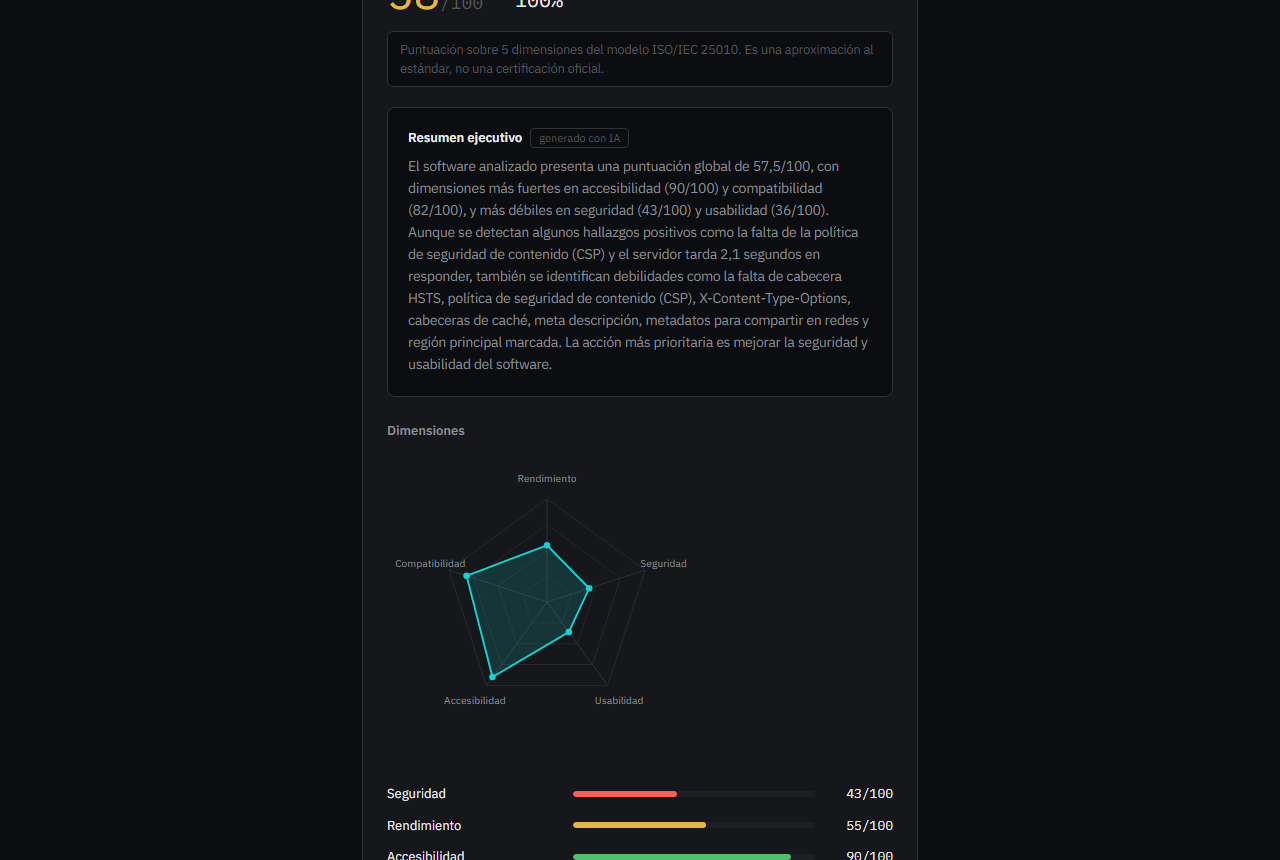
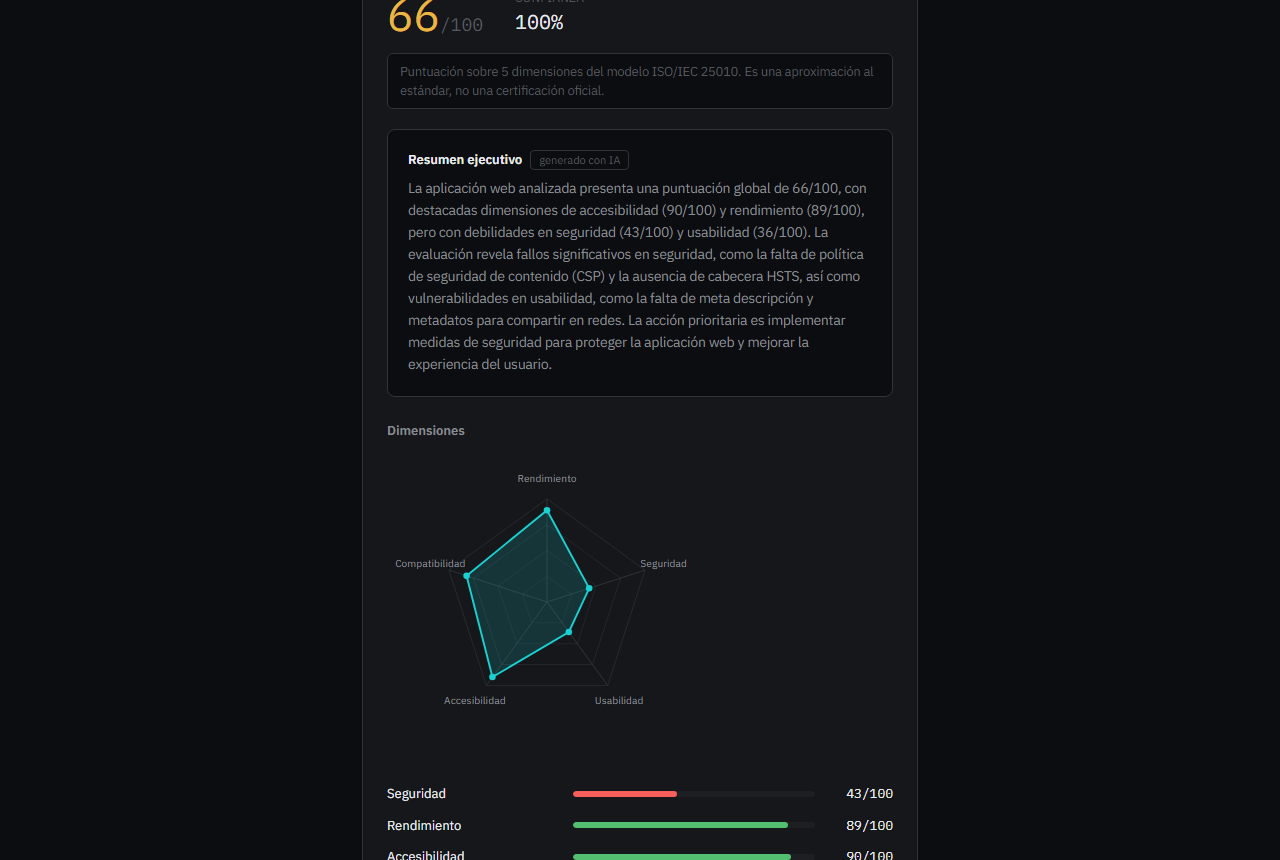
Corrige el resumen de IA, anade licencia y documenta el despliegue
El resumen generado presentaba los defectos como virtudes. Llego a escribir
"se detectan algunos hallazgos positivos como la falta de la politica de
seguridad de contenido", y esa frase acabo en una captura del README.

La causa estaba en el prompt: se le pasaba la lista bajo el rotulo "Hallazgos
detectados" y en ningun sitio se decia que fueran problemas. En espanol
"hallazgo" es neutro, asi que nada impedia al modelo presentarlos como puntos
fuertes. Ahora el rotulo del dato dice que todos son defectos y la instruccion
del sistema lo prohibe de forma explicita, en los tres resumenes (analisis,
comparacion y combinado).

Verificado llamando al modelo real con los mismos datos que produjeron la
frase: ahora los redacta como "el problema mas grave es la falta de...".

Licencia MIT. Sin ella el repositorio es legalmente "todos los derechos
reservados" y nadie puede reutilizarlo.

docs/DEPLOYMENT.md explica como ponerlo en internet y, sobre todo, por que el
worker necesita una maquina con Docker: Render, Railway y Fly ejecutan tu
contenedor pero no dejan crear contenedores hermanos, que es justo lo que hace
el sandbox.

Documenta tambien tres cabos sueltos que solo importan al abrirlo al publico y
que hasta ahora no estaban escritos en ningun sitio:

- No hay tope global de analisis simultaneos, solo por usuario: diez personas
  podrian pedir treinta contenedores y tumbar la maquina.
- No hay verificacion de email, y como los limites son por cuenta, basta con
[…]

Changed region(s): [[0.2812, 0.0, 0.6875, 0.4535], [0.4375, 0.9372, 0.625, 0.9674], [0.375, 0.5744, 0.4688, 0.6651]]

diff --git a/frontend/e2e/capturas.spec.ts b/frontend/e2e/capturas.spec.ts
@@ -74,8 +74,12 @@ test("captura el recorrido completo", async ({ page }) => {
 
   // Segunda toma con el radar y las dimensiones a la vista: es lo que de
   // verdad enseña que el analisis mide algo.
-  await page.getByText("Dimensiones", { exact: true }).scrollIntoViewIfNeeded();
-  await page.waitForTimeout(400);
+  // scrollIntoViewIfNeeded no baja si considera que ya se ve un poco, y el
+  // radar quedaba fuera de cuadro. Se centra a mano.
+  await page
+    .getByText("Dimensiones", { exact: true })
+    .evaluate((el) => el.scrollIntoView({ block: "center" }));
+  await page.waitForTimeout(500);
   await guardar(page, "04b-dimensiones");
 
   // 5. Enlace público

diff --git a/backend/app/services/summary_service.py b/backend/app/services/summary_service.py
@@ -120,8 +120,8 @@ def _try_model(
         f"Puntuacion anterior: {previous_score:g}/100\n"
         f"Puntuacion actual: {current_score:g}/100\n"
         f"Periodo entre analisis: {periodo}\n\n"
-        f"Mejoras detectadas:\n{mejoras}\n\n"
-        f"Regresiones detectadas:\n{regresiones}\n\n"
+        f"Aspectos que mejoraron:\n{mejoras}\n\n"
+        f"Aspectos que empeoraron (todos son defectos):\n{regresiones}\n\n"
         "Redacta el resumen ejecutivo."
     )
 
@@ -139,7 +139,9 @@ def _try_model(
                             "de maximo cinco frases sobre la evolucion de la calidad de un "
                             "proyecto de software. Incluyes: el cambio neto, lo mas relevante que "
                             "mejoro, lo que empeoro, y una unica recomendacion prioritaria para el "
-                            "proximo sprint. Tono profesional pero accesible. No inventas ningun "
+                            "proximo sprint. Tono profesional pero accesible. "
+                            "Los hallazgos y las regresiones que se te facilitan son SIEMPRE defectos: cada uno describe algo que falta o esta mal. Nunca los presentes como aspectos positivos, virtudes ni puntos fuertes. "
+                            "No inventas ningun "
                             "dato que no aparezca en la informacion facilitada. Respondes solo con "
                             "el resumen, sin encabezados ni vinetas."
                         ),
@@ -287,7 +289,7 @@ def _try_analysis_model(
         f"Objetivo analizado: {target_name} ({tipo})\n"
         f"Puntuacion global: {overall_score:g}/100\n\n"
         f"Puntuacion por dimension:\n{lineas_dim}\n\n"
-        f"Hallazgos detectados:\n{lineas_hall}\n\n"
+        f"Problemas detectados (todos son defectos):\n{lineas_hall}\n\n"
         "Redacta el resumen ejecutivo."
     )
 
@@ -305,7 +307,9 @@ def _try_analysis_model(
                             "de maximo cuatro frases sobre la calidad de un software analizado. "
                             "Explicas que significa la puntuacion, senalas la dimension mas fuerte "
                             "y la mas debil, y terminas con la accion mas prioritaria. Tono "
-                            "profesional pero accesible. No inventas ningun dato que no aparezca "
+                            "profesional pero accesible. "
+                            "Los hallazgos y las regresiones que se te facilitan son SIEMPRE defectos: cada uno describe algo que falta o esta mal. Nunca los presentes como aspectos positivos, virtudes ni puntos fuertes. "
+                            "No inventas ningun dato que no aparezca "
                             "en la informacion facilitada, y no afirmas que sea una certificacion. "
                             "Respondes solo con el resumen, sin encabezados ni vinetas."
                         ),
@@ -416,7 +420,7 @@ def _try_combined_model(
         f"Puntuacion en produccion: {url_score:g}/100\n"
         f"Puntuacion consolidada: {consolidated_score:g}/100\n\n"
         f"Analisis de la brecha:\n{brecha}\n\n"
-        f"Plan de mejora priorizado:\n{lineas_plan}\n\n"
+        f"Plan de mejora priorizado (cada punto es un defecto a corregir):\n{lineas_plan}\n\n"
         "Redacta el resumen ejecutivo."
     )
 
@@ -435,7 +439,9 @@ def _try_combined_model(
                             "proyecto con la de su aplicacion ya desplegada. Explicas que "
                             "significa la diferencia entre ambas notas y a que se debe, y "
                             "terminas con la accion mas prioritaria. Tono profesional pero "
-                            "accesible. No inventas ningun dato que no aparezca en la informacion "
+                            "accesible. "
+                            "Los hallazgos y las regresiones que se te facilitan son SIEMPRE defectos: cada uno describe algo que falta o esta mal. Nunca los presentes como aspectos positivos, virtudes ni puntos fuertes. "
+                            "No inventas ningun dato que no aparezca en la informacion "
                             "facilitada. Respondes solo con el resumen, sin encabezados ni "
                             "vinetas."
                         ),

diff --git a/docs/DEPLOYMENT.md b/docs/DEPLOYMENT.md
@@ -1,0 +1,178 @@
+# Despliegue
+
+Cómo poner QalitiRadar en internet para que otras personas puedan usarlo.
+
+---
+
+## La restricción que decide todo lo demás
+
+**El worker necesita hablar con el demonio de Docker** para levantar los contenedores donde se analiza el código ajeno. Eso descarta de golpe la mayoría de plataformas.
+
+| Plataforma | ¿Sirve? | Por qué |
+|---|---|---|
+| Vercel, Netlify | Solo el frontend | No ejecutan procesos de fondo |
+| Render, Railway, Fly.io | **No para el worker** | Ejecutan *tu* contenedor, pero no te dejan crear contenedores hermanos |
+| Google Cloud Run | No | Sin demonio de Docker dentro |
+| **Una máquina virtual con Docker** | **Sí** | Es la única forma de que el worker cree contenedores |
+
+Así que el reparto es:
+
+```
+Frontend  ──▶  Vercel                      (gratis)
+Backend   ──▶  máquina virtual con Docker   ─┐
+Worker    ──▶  la misma máquina, en el host ─┤ juntos
+Analyzer  ──▶  contenedores efímeros        ─┘
+PostgreSQL──▶  gestionado o en la misma máquina
+Redis     ──▶  gestionado o en la misma máquina
+```
+
+---
+
+## Dónde alojar la máquina
+
+| Opción | Recursos | Coste | Aviso |
+|---|---|---|---|
+| **Oracle Cloud Always Free** | 4 núcleos ARM, 24 GB | Gratis para siempre | Lo mejor gratis, pero **muy a menudo da «out of capacity»** y hay que insistir días |
+| **Hetzner CX22** | 2 vCPU, 4 GB | ~4 €/mes | Lo que yo elegiría: se aprovisiona al momento y no falla |
+| AWS / Google Cloud, capa gratuita | 1 vCPU, 1 GB | Gratis 12 meses | **1 GB se queda corto**: cada análisis reserva 512 MB y además corre PostgreSQL |
+
+Con menos de 2 GB de RAM el sistema se cae en cuanto haya dos análisis a la vez.
+
+---
+
+## Pasos
+
+### 1. Preparar la máquina
+
+```bash
+ssh usuario@tu-servidor
+curl -fsSL https://get.docker.com | sh
+sudo usermod -aG docker $USER   # cerrar sesión y volver a entrar
+```
+
+### 2. Traer el proyecto y construir el sandbox
+
+```bash
+git clone https://github.com/Ashdamy/QalityRadar.git
+cd QalityRadar
+docker build -t qalitiradar-analyzer ./analyzer
+```
+
+Sin esa imagen, **todos los análisis de repositorio fallan**. Es el paso que más se olvida.
+
+### 3. Configurar
+
+```bash
+cp backend/.env.example backend/.env
+```
+
+Lo que cambia respecto a desarrollo:
+
+```bash
+JWT_SECRET=<64 caracteres aleatorios: openssl rand -hex 32>
+ENCRYPTION_KEY=<python -c "from cryptography.fernet import Fernet; print(Fernet.generate_key().decode())">
+
+# El dominio del frontend, no localhost. Sin esto el navegador bloquea la API.
+CORS_ORIGINS=https://qalitiradar.vercel.app
+
+# Tiene que ser el mismo que pongas en la OAuth App de GitHub, y con https.
+GITHUB_OAUTH_REDIRECT_URI=https://qalitiradar.vercel.app/auth/github/callback
+```
+
+> **Nunca reutilices el `JWT_SECRET` ni el `ENCRYPTION_KEY` de desarrollo.** El de cifrado protege los tokens de GitHub de tus usuarios; si se filtra, se filtran sus cuentas.
+
+### 4. Levantar datos y API
+
+```bash
+docker compose up -d postgres redis backend
+docker compose exec backend alembic upgrade head
+```
+
+### 5. El worker, en el host
+
+**No dentro de un contenedor.** Meterlo en uno obligaría a montar `/var/run/docker.sock`, que es una vía conocida de escalada a root en la máquina anfitriona.
+
+```bash
+cd backend
+pip install -r requirements.txt
+celery -A app.worker.celery_app worker --loglevel=info &
+celery -A app.worker.celery_app beat --loglevel=info &
+```
+
+Para que sobrevivan a un reinicio, conviene un servicio de systemd por cada uno.
+
+### 6. HTTPS
+
+GitHub exige `https` en el callback de OAuth, y el navegador bloquea peticiones desde una página segura hacia una API que no lo es. **Caddy** lo resuelve con dos líneas y saca el certificado solo:
+
+```
+api.tu-dominio.com {
+    reverse_proxy localhost:8000
+}
+```
+
+### 7. Frontend en Vercel
+
+Importa el repositorio en Vercel y configura:
+
+- **Root Directory:** `frontend`
+- **Variable de entorno:** `NEXT_PUBLIC_API_URL=https://api.tu-dominio.com`
+
+### 8. Actualizar la OAuth App de GitHub
+
+En *Settings → Developer settings → OAuth Apps*, cambia el callback a la dirección real:
+
+```
+https://qalitiradar.vercel.app/auth/github/callback
+```
+
+---
+
+## Antes de abrirlo al público
+
+Estas tres cosas **no** son un problema mientras el proyecto corre en tu ordenador, pero sí lo son en cuanto haya una dirección pública. Se declaran porque son decisiones conscientes, no descuidos.
+
+### 1. No hay tope global de análisis simultáneos
+
+Los límites existentes son **por usuario**: 5 análisis por hora, 2 a la vez, más 1 automático de la vigilancia. No hay ningún tope para el conjunto del servidor.
+
+Diez personas a la vez pueden pedir 30 contenedores. A 512 MB cada uno son 15 GB de RAM, y la máquina se cae.
+
+*Solución:* limitar la concurrencia del worker (`--concurrency=2`), que hace de tope real, y vigilar la memoria.
+
+### 2. Cualquiera puede crear cuentas sin límite
+
+No hay verificación de email. Como los límites de uso son por cuenta, alguien puede registrar diez cuentas y saltárselos.
+
+*Solución:* verificación por email, o límite por IP en el registro.
+
+### 3. Cerrar sesión no invalida el token de refresco
+
+La renovación de sesión es sin estado: el token de refresco es válido 30 días y el servidor no lleva registro de cuáles siguen vivos. Cerrar sesión lo borra del navegador, pero un token robado seguiría funcionando.
+
+*Solución:* guardar los tokens de refresco en la tabla `refresh_tokens`, que ya existe en el esquema, y marcarlos como revocados al cerrar sesión.
+
+---
+
+## Qué vigilar una vez en marcha
+
+- **Memoria.** Es lo primero que se agota. `docker stats` durante un análisis.
+- **Espacio en disco.** Cada análisis clona un repositorio. Se borran solos, pero las imágenes de Docker se acumulan: `docker system prune` de vez en cuando.
+- **Límite de la API de GitHub.** 5.000 peticiones por hora y por token. La vigilancia gasta una por comprobación, así que hace falta mucho para agotarlo.
+- **La purga.** Corre sola una vez al día y mantiene la base acotada. Si Celery Beat no está en marcha, la base crece sin freno.
+
+---
+
+## Coste real
+
+| Concepto | Gratis | Recomendado |
+|---|---|---|
+| Frontend | Vercel Hobby | igual |
+| Servidor | Oracle Always Free | Hetzner ~4 €/mes |
+| PostgreSQL | En el servidor · [Neon](https://neon.tech) | igual |
+| Redis | En el servidor · [Upstash](https://upstash.com) | igual |
+| Dominio | Subdominio de Vercel | ~10 €/año |
+| IA de resúmenes | Hugging Face gratuito | igual |
+| **Total** | **0 €** | **~5 €/mes** |
+
+Se puede desplegar entero **sin pagar nada**, a cambio de pelearse con la disponibilidad de Oracle Cloud.

diff --git a/RESUME.md b/RESUME.md
@@ -263,6 +263,20 @@ Para direcciones no hay commit, así que se usa el `ETag` o el `Last-Modified` c
 
 ---
 
+### 17. Publicación del repositorio
+
+README escrito para alguien de fuera, con capturas de cada paso. Las capturas **se generan recorriendo la aplicación con Playwright**, no son montajes: si una pantalla se rompe, la captura lo enseña.
+
+Hacerlas sirvió de revisión y sacó tres fallos:
+
+- La pantalla de seguimiento no mostraba nada mientras cargaba, así que parecía rota.
+- La celda «Avisos» del resumen enseñaba la palabra «Campana» con formato de cifra: un texto disfrazado de dato.
+- **El resumen de la IA presentaba los defectos como virtudes**: llegó a escribir *«se detectan algunos hallazgos positivos como la falta de la política de seguridad de contenido»*. La causa era del prompt: se le pasaba una lista bajo el rótulo «Hallazgos detectados» sin decir en ningún sitio que fueran problemas, y «hallazgo» en español es neutro. Ahora el rótulo dice que todos son defectos y el sistema lo prohíbe explícitamente. Verificado contra el modelo real.
+
+Se añadió licencia MIT y se documentó el despliegue en [`docs/DEPLOYMENT.md`](docs/DEPLOYMENT.md), incluyendo los tres cabos sueltos que solo importan al abrirlo al público: falta un tope global de análisis simultáneos, no hay verificación de email (y los límites son por cuenta), y cerrar sesión no invalida el token de refresco.
+
+---
+
 ## Lo que sigue
 
 1. **Despliegue**, cuando tú lo digas. La recomendación sigue siendo **Vercel para el frontend y Oracle Cloud Always Free para el backend**: Render y Railway no dan acceso al demonio de Docker, que el sandbox necesita.

diff --git a/README.md b/README.md
@@ -212,6 +212,7 @@ Las end-to-end usan un navegador real contra la aplicación en marcha. Requieren
 | [`docs/ARCHITECTURE.md`](docs/ARCHITECTURE.md) | Componentes, flujos y riesgos de seguridad |
 | [`docs/DATA_MODEL.md`](docs/DATA_MODEL.md) | Esquema completo: tablas, relaciones e índices |
 | [`docs/ISO_25010_MAPPING.md`](docs/ISO_25010_MAPPING.md) | Qué señal alimenta cada característica del estándar |
+| [`docs/DEPLOYMENT.md`](docs/DEPLOYMENT.md) | Cómo ponerlo en internet, y qué cerrar antes de abrirlo |
 | [`docs/ROADMAP.md`](docs/ROADMAP.md) | Plan por semanas con criterios de salida |
 | [`RESUME.md`](RESUME.md) | Bitácora del desarrollo y decisiones tomadas |
 
@@ -233,4 +234,8 @@ Se declaran porque afectan a cómo hay que leer los resultados:
 
 Los tres modos de análisis funcionan de principio a fin. Queda el despliegue en producción.
 
-Antes de exponerlo públicamente hay un cabo suelto documentado: la renovación de sesión es sin estado, así que cerrar sesión no invalida el token de refresco en el servidor.
+Hay **tres cabos sueltos que solo importan al abrirlo al público**, y están documentados con su solución en [`docs/DEPLOYMENT.md`](docs/DEPLOYMENT.md): no hay tope global de análisis simultáneos, cualquiera puede crear cuentas sin verificar el email, y cerrar sesión no invalida el token de refresco en el servidor.
+
+## Licencia
+
+[MIT](LICENSE). Puedes usarlo, modificarlo y distribuirlo libremente, citando la autoría.
